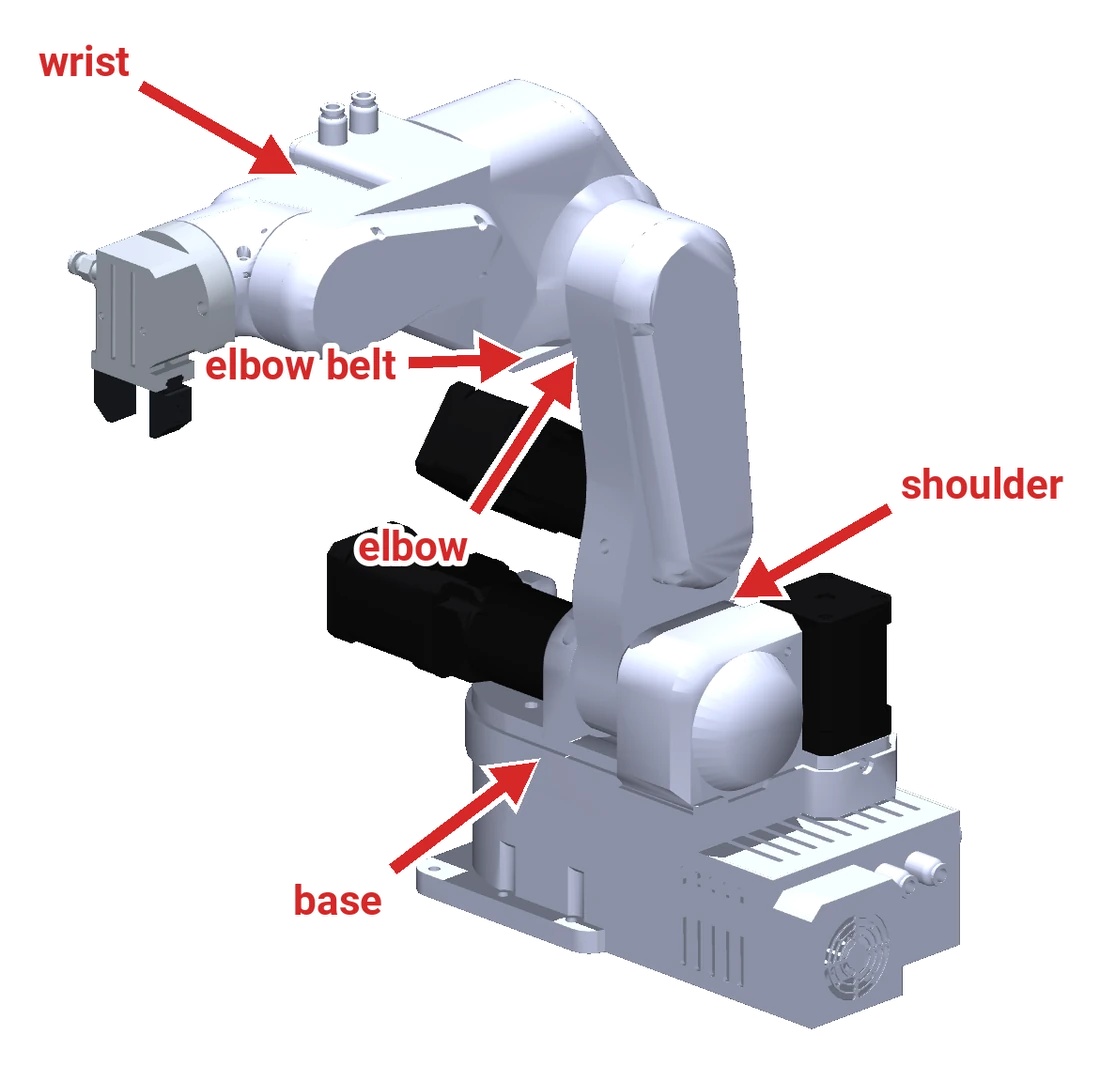
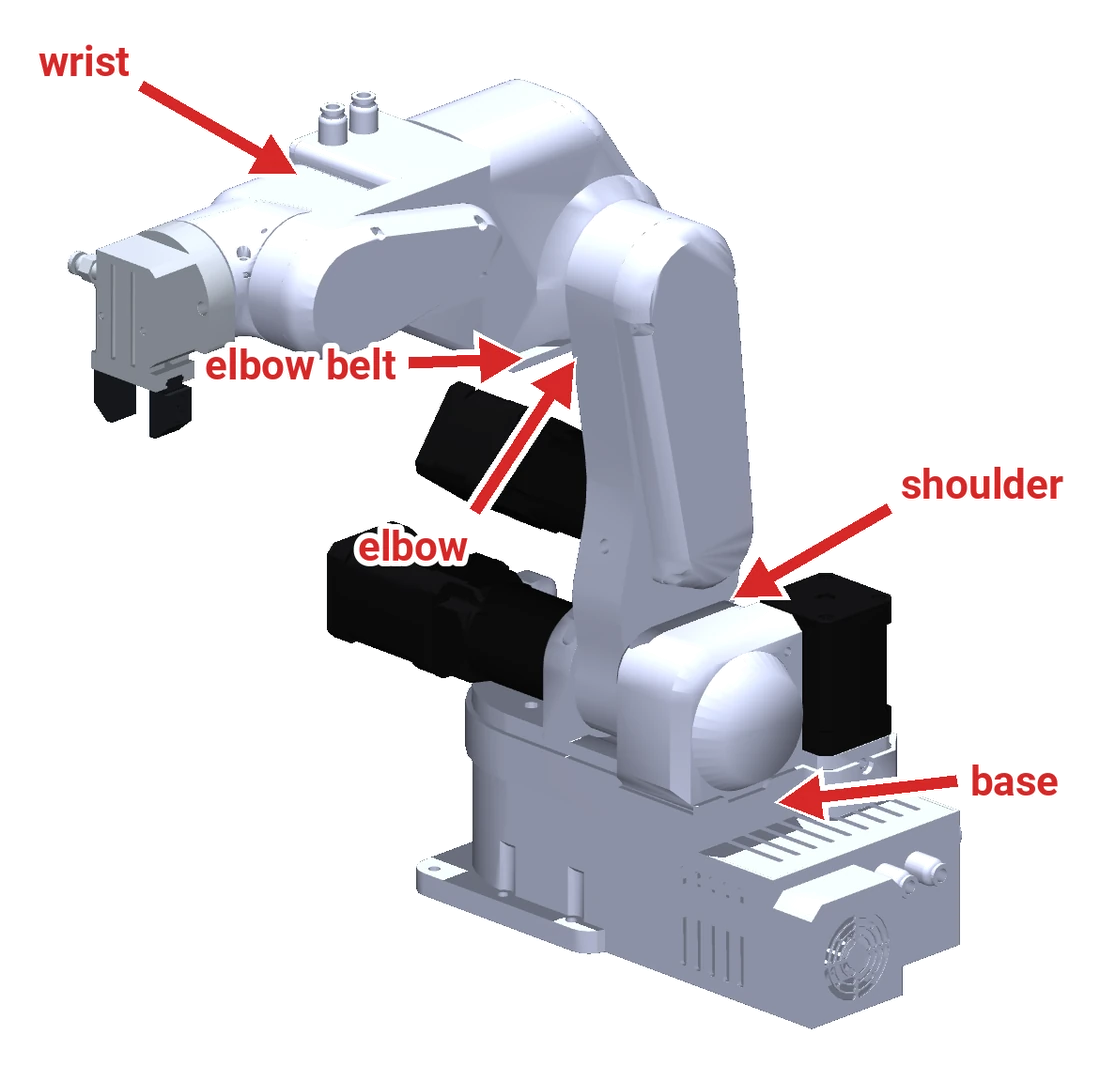
The owner's second notes: no joint-to-board table, kits linked, parts list beside its picture
- Connectors: the joint-to-board section is removed (the owner found it
  confusing); the build guide just says to wire each motor to its joint's terminals.
- Overview and What you get link the assembled robot, the full kit and the
  partial kit in the shop.
- The robot system: the numbered parts list sits beside the picture (a grid,
  the picture in the wider column; stacked on a narrow screen).
- Intended use: the load-bearing, lift and seat line is gone.
- Mounting: the profile connectors link their STL/UTILITY folder.
- Pinch points: the base arrow points under the dome, on the fan side.

Changed region(s): [[0.7109, 0.712, 0.9582, 0.7739], [0.3709, 0.712, 0.4945, 0.8049], [0.2473, 0.8049, 0.3709, 0.8668]]

diff --git a/docs/stylesheets/extra.css b/docs/stylesheets/extra.css
@@ -24,6 +24,15 @@
   margin: 0.4rem 0;
 }
 
+/* A picture with its numbered list beside it (The robot system): the picture gets the wider column; on a narrow
+   screen Material's grid stacks them */
+@media screen and (min-width: 45em) {
+  .md-typeset .grid.side-list {
+    grid-template-columns: 3fr 2fr;
+    align-items: center;
+  }
+}
+
 /* Numbered figures: <figure> with <figcaption> */
 .md-typeset figure {
   margin: 1.5rem auto;

diff --git a/docs/board/04-connectors.md b/docs/board/04-connectors.md
@@ -14,32 +14,6 @@
 | Motors | 6 × 4-pin terminal blocks, one per driver |
 | Limit switches, inputs, outputs, E-stop, CAN, 24 V out, GND, HV_SEL, GND_SEL | Pluggable terminal blocks along the edges |
 
-## Which parts of the board belong to which joint
-
-Each joint uses three things on the board: the terminals its motor plugs into, the driver module that powers
-that motor, and the input its limit switch or sensor is wired to. The board labels them with three different
-numberings, and only the motor terminals use the joint's own number:
-
-| Joint | Motor terminals | Driver module socket | Limit switch or sensor input |
-|---|---|---|---|
-| 1 | `J1_A+` `J1_A-` `J1_B+` `J1_B-` | MOTOR1 | **Limit 6** |
-| 2 | `J2_…` | **MOTOR6** | Limit 2 |
-| 3 | `J3_…` | **MOTOR5** | Limit 3 |
-| 4 | `J4_…` | MOTOR4 | Limit 4 |
-| 5 | `J5_…` | **MOTOR2** | Limit 5 |
-| 6 | `J6_…` | **MOTOR3** | **Limit 1** |
-
-- **Motors:** connect each joint's motor to the terminals marked with its joint number. The board routes them to
-  the right driver; nothing to remap.
-- **Limit switches and sensors:** joints 2 to 5 go to the input with their own number, but joints 1 and 6 are
-  swapped: joint 1's sensor goes to **Limit 6**, joint 6's sensor to **Limit 1**.
-- **Driver modules:** the sockets MOTOR1 to MOTOR6 are not in joint order. All six modules are the same, so this
-  only matters when one is faulty: the joint that misbehaves tells you which socket to look at.
-
-The firmware sets this up in `motor_init.cpp` (each joint's step, select and limit pins). When in doubt, let the
-test firmware check it: `#LIMIT` prints `Joint N is pressed` for each switch you press
-([The test firmware](09-test-firmware.md)).
-
 ## Pin definitions
 
 The microcontroller pins as the firmware defines them (`iodefs.h`), for anyone who writes firmware or probes the

diff --git a/docs/01-overview/what-you-get.md b/docs/01-overview/what-you-get.md
@@ -2,16 +2,18 @@
 
 ## An assembled robot
 
-A PAROL6 from the shop comes assembled, wired and tested, with the control board in the base running the main
+A PAROL6 [from the shop](https://source-robotics.com/products/parol6-robotic-arm) comes assembled, wired and tested, with the control board in the base running the main
 firmware, the E-stop button, the pneumatic gripper holder, and the robot homed once on the bench. Check the
 contents against the order; the power supply, grippers and the programming adapter are separate items unless the
 order includes them.
 
 ## A kit
 
-A kit contains the printed parts, the mechanical parts, the motors and gearboxes, the control board and the
-electronics of the [BOM](../build/bill-of-materials.md). You assemble it with the [Build guide](../build/index.md)
-and the assembly manual. The control board in a kit may carry the test firmware: the [first run](../build/firmware-and-first-run.md)
+The [full kit](https://source-robotics.com/products/parol6-robotic-arm-kit) contains every part of the [BOM](../build/bill-of-materials.md) except the printed parts
+and the power supply. The [partial kit](https://source-robotics.com/products/parol6-partial-kit) contains the hard-to-find parts: the board, the drivers, the
+bearings, belts, pulleys, connectors, sensors, switches and the pneumatics; you add the gearboxes, the motors,
+the power supply and the printed parts. The [Build guide](../build/index.md#kits) lists every kit. You assemble
+a kit with the Build guide and the assembly manual. The control board in a kit may carry the test firmware: the [first run](../build/firmware-and-first-run.md)
 says how to tell, and how to upload the main firmware.
 
 ## A control board on its own

diff --git a/docs/01-overview/robot-system.md b/docs/01-overview/robot-system.md
@@ -13,6 +13,8 @@ ends in a flange with the robot's tool connections next to it: an M8 connector f
 pneumatic lines. Each joint has a limit switch or an inductive sensor that gives it a reference when the robot
 homes.
 
+<div class="grid side-list" markdown>
+
 ![PAROL6 with the pneumatic gripper, its parts numbered](../assets/figures/parol6_parts.webp#only-light){ width="760" }
 ![PAROL6 with the pneumatic gripper, its parts numbered](../assets/figures/parol6_parts_dark.webp#only-dark){ width="760" }
 
@@ -28,6 +30,8 @@ homes.
 10. Flange, turned by joint 6
 11. Air fittings for a pneumatic tool
 12. Gripper, here the standard pneumatic gripper
+
+</div>
 
 The arm has no brakes and no joint encoders. The motors hold the arm while they are powered; the position is
 counted in steps from the homing reference. Both facts shape how the robot is used, and the

diff --git a/docs/01-overview/index.md b/docs/01-overview/index.md
@@ -3,7 +3,9 @@
 PAROL6 is a 3D-printed six-axis desktop robotic arm with a 408 mm reach and a 1 kg payload, built to work like an
 industrial arm in its mechanics, its control software and the way you use it. Everything about it is open source:
 the printable parts, the bill of materials, the control board's firmware, the commander software and the Python
-API. You can buy it assembled or as a kit, or print and build one from the published files.
+API. You can buy it [assembled](https://source-robotics.com/products/parol6-robotic-arm), as the [full kit](https://source-robotics.com/products/parol6-robotic-arm-kit) or as the [partial kit](https://source-robotics.com/products/parol6-partial-kit) of
+the hard-to-find parts, or print and build one from the published files: the [Build guide](../build/index.md)
+compares them.
 
 ## In this chapter
 

diff --git a/docs/build/electronics-and-wiring.md b/docs/build/electronics-and-wiring.md
@@ -17,7 +17,6 @@ page before you plug anything in.
 ![Wiring diagram: motors, switches, sensors and connectors to the control board](../assets/parol6v2_connection.webp){ width="750" }
 
 - **Motors**: one four-wire cable per joint, to the terminals marked with its joint number (`J1_A+` to `J6_B-`).
-  Which driver module serves which joint is in [Connectors and pinout](../board/04-connectors.md#which-parts-of-the-board-belong-to-which-joint).
 - **Limit switches** (joints 2, 3, 5): one lead to 24 V, the other to the joint's LIMIT terminal; polarity does
   not matter.
 - **Inductive sensors** (joints 1, 4, 6): brown to 24 V, blue to GND, black (signal) to the LIMIT terminal.

diff --git a/docs/04-installation/mounting.md b/docs/04-installation/mounting.md
@@ -18,7 +18,8 @@ interfere with the fan intake and the connectors at the back.
 
 ## A profile frame
 
-The repository's `UTILITY/connectors_4_alu_profiles.STL` prints a set of corner connectors for a frame of 30×30
+The repository's [`STL/UTILITY`](https://github.com/Source-Robotics/PAROL6-Desktop-robot-arm/tree/main/STL/UTILITY)
+folder has `connectors_4_alu_profiles.STL`, which prints a set of corner connectors for a frame of 30×30
 profiles, as in the figure. You need M5 T-nuts, M5 × 12 mm screws for the connectors and M5 × 18 to 20 mm screws
 for the base.
 

diff --git a/docs/02-safety/intended-use.md b/docs/02-safety/intended-use.md
@@ -18,7 +18,6 @@ not a certified industrial robot.
 - for anything that must not fail: it has no brakes and no joint position feedback, and a lost step is silent
 - with tools that cut, heat or spray without your own guarding and risk assessment
 - in wet, dusty or hot places, or outdoors
-- as a load-bearing structure, a lift or a seat
 
 A self-built robot is the builder's responsibility from the first screw: the currents, the wiring, the limit
 switches and the mechanical stops are all yours to get right, and the [Build guide](../build/index.md) says where
